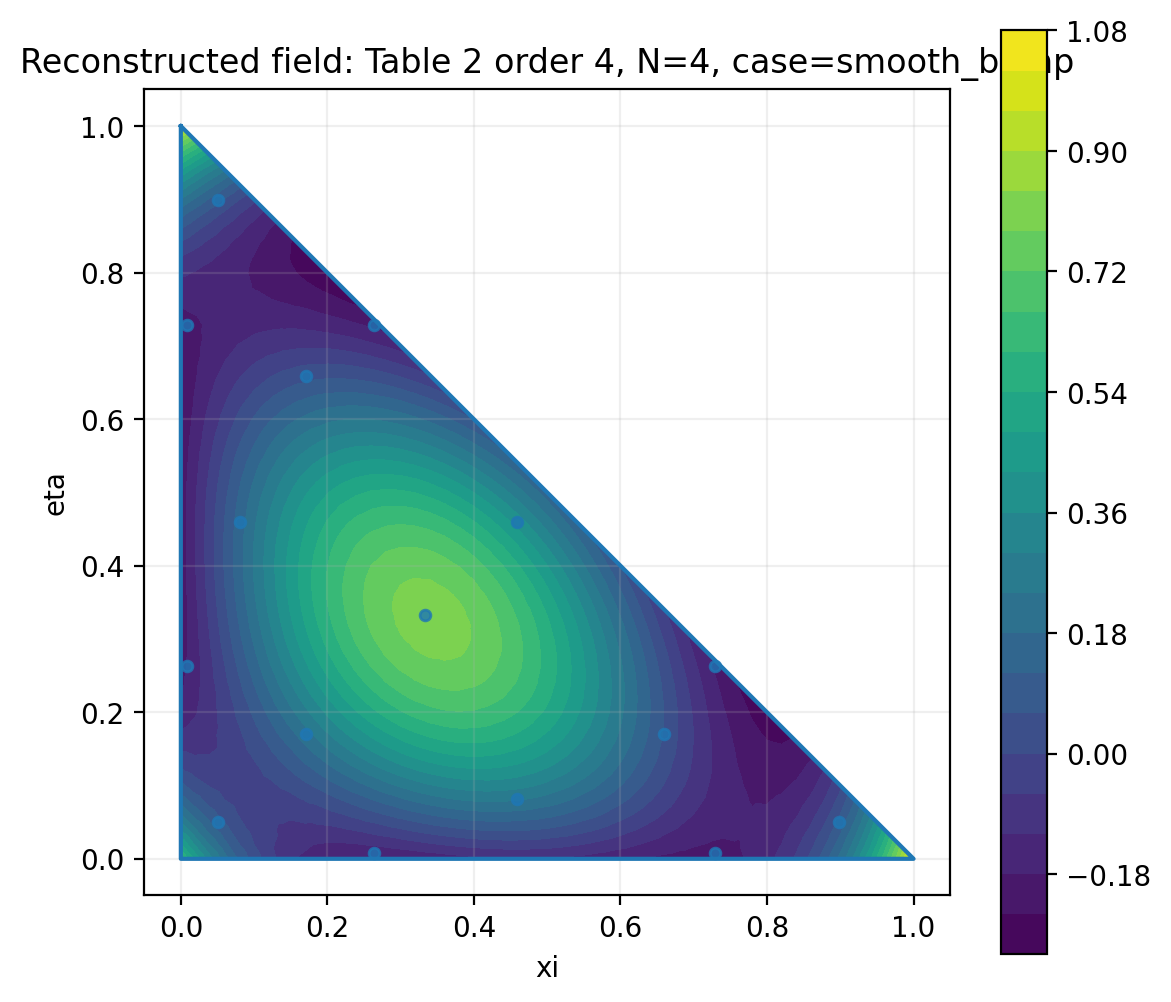
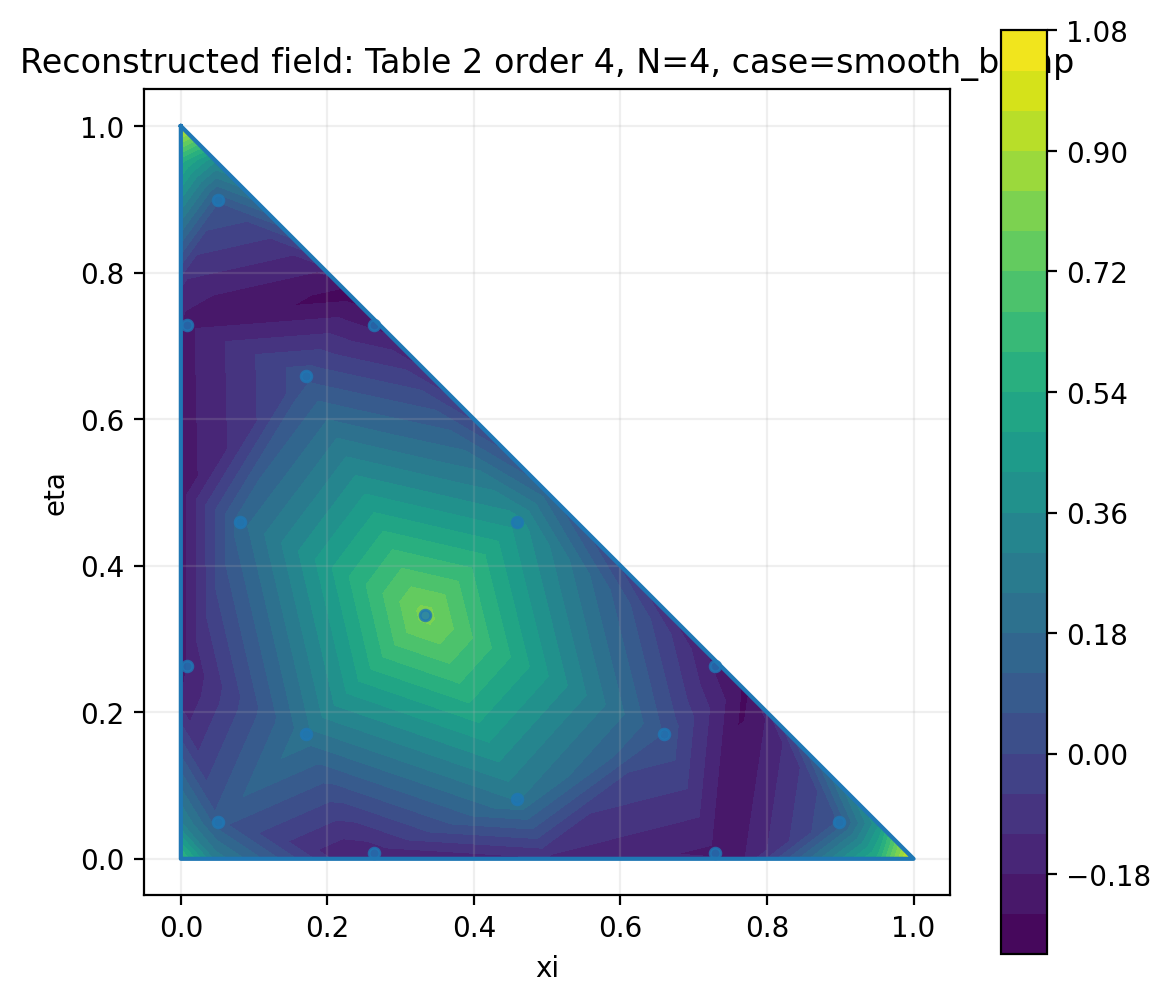
add some photo and change visualization logic

diff --git a/demo/demo_error_field_table1.py b/demo/demo_error_field_table1.py
@@ -22,10 +22,12 @@ def xy_to_rs(xy: np.ndarray) -> np.ndarray:
 
 
 def main() -> None:
+    output_dir = Path(r"C:\Users\user\Desktop\triangle-dg-project\photo")
+    output_dir.mkdir(parents=True, exist_ok=True)
+
     vertices = reference_triangle_vertices()
     area = reference_triangle_area()
-    output_dir = Path(r"C:\Users\user\Desktop\triangle_dg_project\photo")
-    output_dir.mkdir(parents=True, exist_ok=True)
+
     table_order = 4
     N = 4
     resolution = 60
@@ -41,8 +43,14 @@ def main() -> None:
 
     V = vandermonde2d(N, rs_nodes[:, 0], rs_nodes[:, 1])
     coeffs = fit_modal_coefficients_weighted(u_nodes, V, w, area=area)
-
-    xy_eval = dense_barycentric_lattice(vertices, resolution=resolution)
+    from geometry.display_points import build_display_points
+    xy_eval = build_display_points(
+        table_name="table1",
+        rule=rule,
+        add_vertices=True,
+        add_edge_points=True,
+        edge_n=table_order + 1
+    )
     rs_eval = xy_to_rs(xy_eval)
     V_eval = vandermonde2d(N, rs_eval[:, 0], rs_eval[:, 1])
     u_eval = evaluate_modal_expansion(V_eval, coeffs)
@@ -54,12 +62,24 @@ def main() -> None:
         xy_eval=xy_eval,
         u_eval=err,
         vertices=vertices,
-        nodes=xy_nodes,
+        nodes=xy_eval,
         title=f"Error field: Table 1 order {table_order}, N={N}, case={case_name}",
         levels=25,
         show_nodes=True,
     )
     fig.savefig(output_dir / "error_field_table1_order4_N4.png", dpi=200, bbox_inches="tight")
+    plt.close(fig)
+
+    fig, ax = plot_triangle_field(
+        xy_eval=xy_eval,
+        u_eval=u_eval,
+        vertices=vertices,
+        nodes=xy_eval,
+        title=f"Evaluated field: Table 1 order {table_order}, N={N}, case={case_name}",
+        levels=25,
+        show_nodes=True,
+    )
+    fig.savefig(output_dir / "evaluated_field_table1_order4_N4.png", dpi=200, bbox_inches="tight")
     plt.close(fig)
 
     print("--- dense grid error ---")
@@ -74,7 +94,6 @@ def main() -> None:
     print("node rms error =", np.sqrt(np.mean(err_nodes**2)))
     weighted_orthogonality = V.T @ (w * err_nodes)
     print("||V^T W err_nodes||_inf =", np.max(np.abs(weighted_orthogonality)))
-
 
 if __name__ == "__main__":
     main()

diff --git a/demo/demo_error_field_table2.py b/demo/demo_error_field_table2.py
@@ -22,7 +22,7 @@ def xy_to_rs(xy: np.ndarray) -> np.ndarray:
 
 
 def main() -> None:
-    output_dir = Path(r"C:\Users\user\Desktop\triangle_dg_project\photo")
+    output_dir = Path(r"C:\Users\user\Desktop\triangle-dg-project\photo")
     output_dir.mkdir(parents=True, exist_ok=True)
 
     vertices = reference_triangle_vertices()
@@ -43,8 +43,14 @@ def main() -> None:
 
     V = vandermonde2d(N, rs_nodes[:, 0], rs_nodes[:, 1])
     coeffs = fit_modal_coefficients_weighted(u_nodes, V, w, area=area)
-
-    xy_eval = dense_barycentric_lattice(vertices, resolution=resolution)
+    from geometry.display_points import build_display_points
+    xy_eval = build_display_points(
+        table_name="table2",
+        rule=rule,
+        add_vertices=True,
+        add_edge_points=True,
+        edge_n=table_order + 1
+    )
     rs_eval = xy_to_rs(xy_eval)
     V_eval = vandermonde2d(N, rs_eval[:, 0], rs_eval[:, 1])
     u_eval = evaluate_modal_expansion(V_eval, coeffs)
@@ -56,12 +62,24 @@ def main() -> None:
         xy_eval=xy_eval,
         u_eval=err,
         vertices=vertices,
-        nodes=xy_nodes,
+        nodes=xy_eval,
         title=f"Error field: Table 2 order {table_order}, N={N}, case={case_name}",
         levels=25,
         show_nodes=True,
     )
     fig.savefig(output_dir / "error_field_table2_order4_N4.png", dpi=200, bbox_inches="tight")
+    plt.close(fig)
+
+    fig, ax = plot_triangle_field(
+        xy_eval=xy_eval,
+        u_eval=u_eval,
+        vertices=vertices,
+        nodes=xy_eval,
+        title=f"Evaluated field: Table 2 order {table_order}, N={N}, case={case_name}",
+        levels=25,
+        show_nodes=True,
+    )
+    fig.savefig(output_dir / "evaluated_field_table2_order4_N4.png", dpi=200, bbox_inches="tight")
     plt.close(fig)
 
     print("--- dense grid error ---")

diff --git a/geometry/display_points.py b/geometry/display_points.py
@@ -1,0 +1,66 @@
+from __future__ import annotations
+
+import numpy as np
+
+from geometry.reference_triangle import reference_triangle_vertices
+from data.edge_rules import all_edge_gl1d_rules
+
+
+def _unique_rows(arr: np.ndarray, ndigits: int = 14) -> np.ndarray:
+    arr = np.asarray(arr, dtype=float)
+    rounded = np.round(arr, ndigits)
+    _, idx = np.unique(rounded, axis=0, return_index=True)
+    idx = np.sort(idx)
+    return arr[idx]
+
+
+def build_display_points(
+    table_name: str,
+    rule: dict,
+    add_vertices: bool = True,
+    add_edge_points: bool = True,
+    edge_n: int = 5,
+) -> np.ndarray:
+    """
+    Build display/evaluation points for plotting.
+
+    Rules
+    -----
+    Table 1:
+        display points = table nodes + vertices
+
+    Table 2:
+        display points = table nodes + vertices + GL1D edge points
+
+    Parameters
+    ----------
+    table_name : str
+        "table1" or "table2"
+    rule : dict
+        Rule dictionary from load_table1_rule / load_table2_rule
+    add_vertices : bool
+        Whether to add the 3 triangle vertices
+    add_edge_points : bool
+        Whether to add GL1D edge points (used mainly for table2)
+    edge_n : int
+        Number of GL1D points per edge
+
+    Returns
+    -------
+    np.ndarray
+        Display points in (xi, eta), shape (n_points, 2)
+    """
+    table_name = table_name.lower().strip()
+    pts = [np.asarray(rule["xy"], dtype=float)]
+
+    if add_vertices:
+        verts = reference_triangle_vertices()
+        pts.append(verts)
+
+    if table_name == "table2" and add_edge_points:
+        edge_rules = all_edge_gl1d_rules(edge_n)
+        for edge_id in [1, 2, 3]:
+            pts.append(edge_rules[edge_id].xy)
+
+    all_pts = np.vstack(pts)
+    return _unique_rows(all_pts)

diff --git a/demo/demo_3d_table2.py b/demo/demo_3d_table2.py
@@ -22,7 +22,7 @@ def xy_to_rs(xy: np.ndarray) -> np.ndarray:
 
 
 def main() -> None:
-    output_dir = Path(r"C:\Users\user\Desktop\triangle_dg_project\photo")
+    output_dir = Path(r"C:\Users\user\Desktop\triangle-dg-project\photo")
     output_dir.mkdir(parents=True, exist_ok=True)
     vertices = reference_triangle_vertices()
     area = reference_triangle_area()
@@ -46,7 +46,15 @@ def main() -> None:
     coeffs = fit_modal_coefficients_weighted(u_nodes, V, w, area=area)
 
     # dense evaluation points
-    xy_eval = dense_barycentric_lattice(vertices, resolution=resolution)
+    from geometry.display_points import build_display_points
+
+    xy_eval = build_display_points(
+        table_name="table2",
+        rule=rule,
+        add_vertices=True,
+        add_edge_points=True,
+        edge_n=table_order + 1
+    )
     rs_eval = xy_to_rs(xy_eval)
     V_eval = vandermonde2d(N, rs_eval[:, 0], rs_eval[:, 1])
 
@@ -60,7 +68,7 @@ def main() -> None:
         xy_eval=xy_eval,
         z_eval=u_eval,
         vertices=vertices,
-        nodes=xy_nodes,
+        nodes=xy_eval,
         title=f"3D reconstructed field: Table 2 order {table_order}, N={N}, case={case_name}",
         zlabel="u_recon",
     )

diff --git a/demo/demo_3d_table1.py b/demo/demo_3d_table1.py
@@ -22,7 +22,7 @@ def xy_to_rs(xy: np.ndarray) -> np.ndarray:
 
 
 def main() -> None:
-    output_dir = Path(r"C:\Users\user\Desktop\triangle_dg_project\photo")
+    output_dir = Path(r"C:\Users\user\Desktop\triangle-dg-project\photo")
     output_dir.mkdir(parents=True, exist_ok=True)
     vertices = reference_triangle_vertices()
     area = reference_triangle_area()
@@ -46,7 +46,14 @@ def main() -> None:
     coeffs = fit_modal_coefficients_weighted(u_nodes, V, w, area=area)
 
     # dense evaluation points
-    xy_eval = dense_barycentric_lattice(vertices, resolution=resolution)
+    from geometry.display_points import build_display_points
+
+    xy_eval = build_display_points(
+        table_name="table1",
+        rule=rule,
+        add_vertices=True,
+        add_edge_points=False,
+        edge_n=5)
     rs_eval = xy_to_rs(xy_eval)
     V_eval = vandermonde2d(N, rs_eval[:, 0], rs_eval[:, 1])
 
@@ -60,7 +67,7 @@ def main() -> None:
         xy_eval=xy_eval,
         z_eval=u_eval,
         vertices=vertices,
-        nodes=xy_nodes,
+        nodes=xy_eval,
         title=f"3D reconstructed field: Table 1 order {table_order}, N={N}, case={case_name}",
         zlabel="u_recon",
     )

diff --git a/demo/demo_reconstruct_field_table1.py b/demo/demo_reconstruct_field_table1.py
@@ -22,7 +22,7 @@ def xy_to_rs(xy: np.ndarray) -> np.ndarray:
 
 
 def main() -> None:
-    output_dir = Path(r"C:\Users\user\Desktop\triangle_dg_project\photo")
+    output_dir = Path(r"C:\Users\user\Desktop\triangle-dg-project\photo")
     output_dir.mkdir(parents=True, exist_ok=True)
 
     vertices = reference_triangle_vertices()
@@ -44,7 +44,14 @@ def main() -> None:
     V = vandermonde2d(N, rs_nodes[:, 0], rs_nodes[:, 1])
     coeffs = fit_modal_coefficients_weighted(u_nodes, V, w, area=area)
 
-    xy_eval = dense_barycentric_lattice(vertices, resolution=resolution)
+    from geometry.display_points import build_display_points
+    xy_eval = build_display_points(
+        table_name="table1",
+        rule=rule,
+        add_vertices=True,
+        add_edge_points=True,
+        edge_n=table_order + 1
+    )
     rs_eval = xy_to_rs(xy_eval)
     V_eval = vandermonde2d(N, rs_eval[:, 0], rs_eval[:, 1])
     u_eval = evaluate_modal_expansion(V_eval, coeffs)

diff --git a/demo/demo_reconstruct_field_table2.py b/demo/demo_reconstruct_field_table2.py
@@ -22,7 +22,7 @@ def xy_to_rs(xy: np.ndarray) -> np.ndarray:
 
 
 def main() -> None:
-    output_dir = Path(r"C:\Users\user\Desktop\triangle_dg_project\photo")
+    output_dir = Path(r"C:\Users\user\Desktop\triangle-dg-project\photo")
     output_dir.mkdir(parents=True, exist_ok=True)
 
     vertices = reference_triangle_vertices()
@@ -47,7 +47,14 @@ def main() -> None:
     coeffs = fit_modal_coefficients_weighted(u_nodes, V, w, area=area)
 
     # dense sampling points inside the triangle
-    xy_eval = dense_barycentric_lattice(vertices, resolution=resolution)
+    from geometry.display_points import build_display_points
+    xy_eval = build_display_points(
+        table_name="table2",
+        rule=rule,
+        add_vertices=True,
+        add_edge_points=True,
+        edge_n=table_order + 1
+    )
     rs_eval = xy_to_rs(xy_eval)
     V_eval = vandermonde2d(N, rs_eval[:, 0], rs_eval[:, 1])
     u_eval = evaluate_modal_expansion(V_eval, coeffs)
